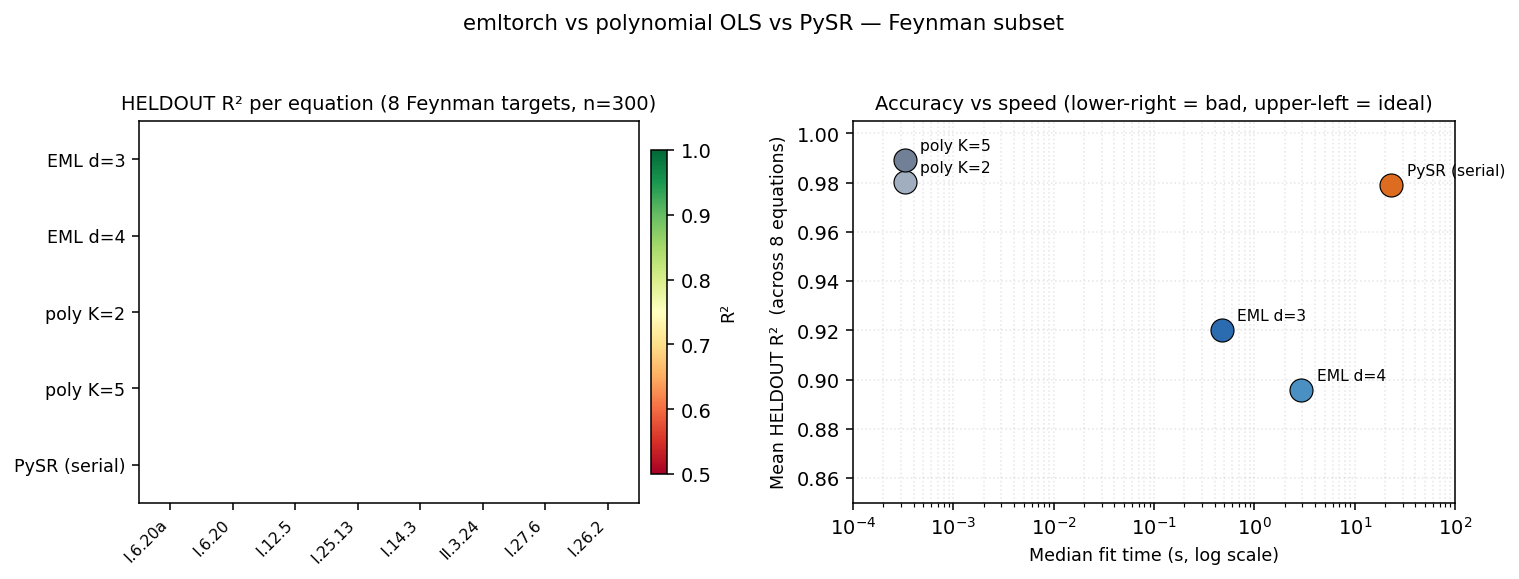
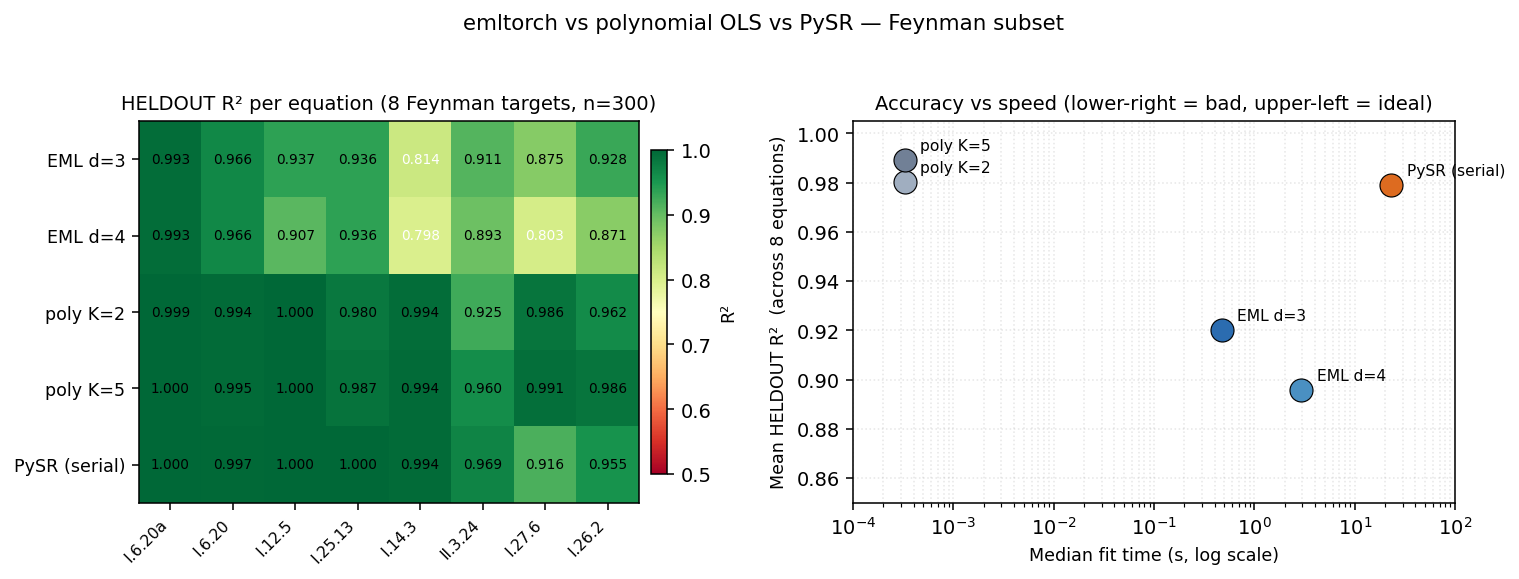
Fix benchmark figure left panel — results.json shape lookup
make_figures.py looked up `data[eq][method]` but the actual JSON
shape is `data[eq]["methods"][method]`. Heat-strip silently rendered
all-NaN (imshow drew the axes but every cell was transparent).

Right panel was already correct (uses `data["aggregate"][method]`).
Regenerated figure_benchmark.png with per-equation R² annotations
visible (5 methods x 8 equations); figure_pareto_demo.png unchanged.

Changed region(s): [[0.0928, 0.1865, 0.4332, 0.8705]]

diff --git a/examples/srbench_feynman/make_figures.py b/examples/srbench_feynman/make_figures.py
@@ -61,11 +61,13 @@ def make_benchmark_figure():
     methods = ["eml_d3", "eml_d4", "poly_K2", "poly_K5", "pysr"]
     eq_names = [k for k in data.keys() if k != "aggregate"]
 
-    # Per-(equation, method) HELDOUT R² matrix
+    # Per-(equation, method) HELDOUT R² matrix.
+    # results.json shape: data[eq] = {"desc": ..., "methods": {method: {"heldout_r2": ...}}}
     r2_mat = np.full((len(methods), len(eq_names)), np.nan)
     for j, eq in enumerate(eq_names):
+        eq_methods = data[eq].get("methods", {}) if isinstance(data[eq], dict) else {}
         for i, m in enumerate(methods):
-            cell = data[eq].get(m, {})
+            cell = eq_methods.get(m, {})
             if isinstance(cell, dict) and isinstance(
                 cell.get("heldout_r2"), (int, float)
             ):